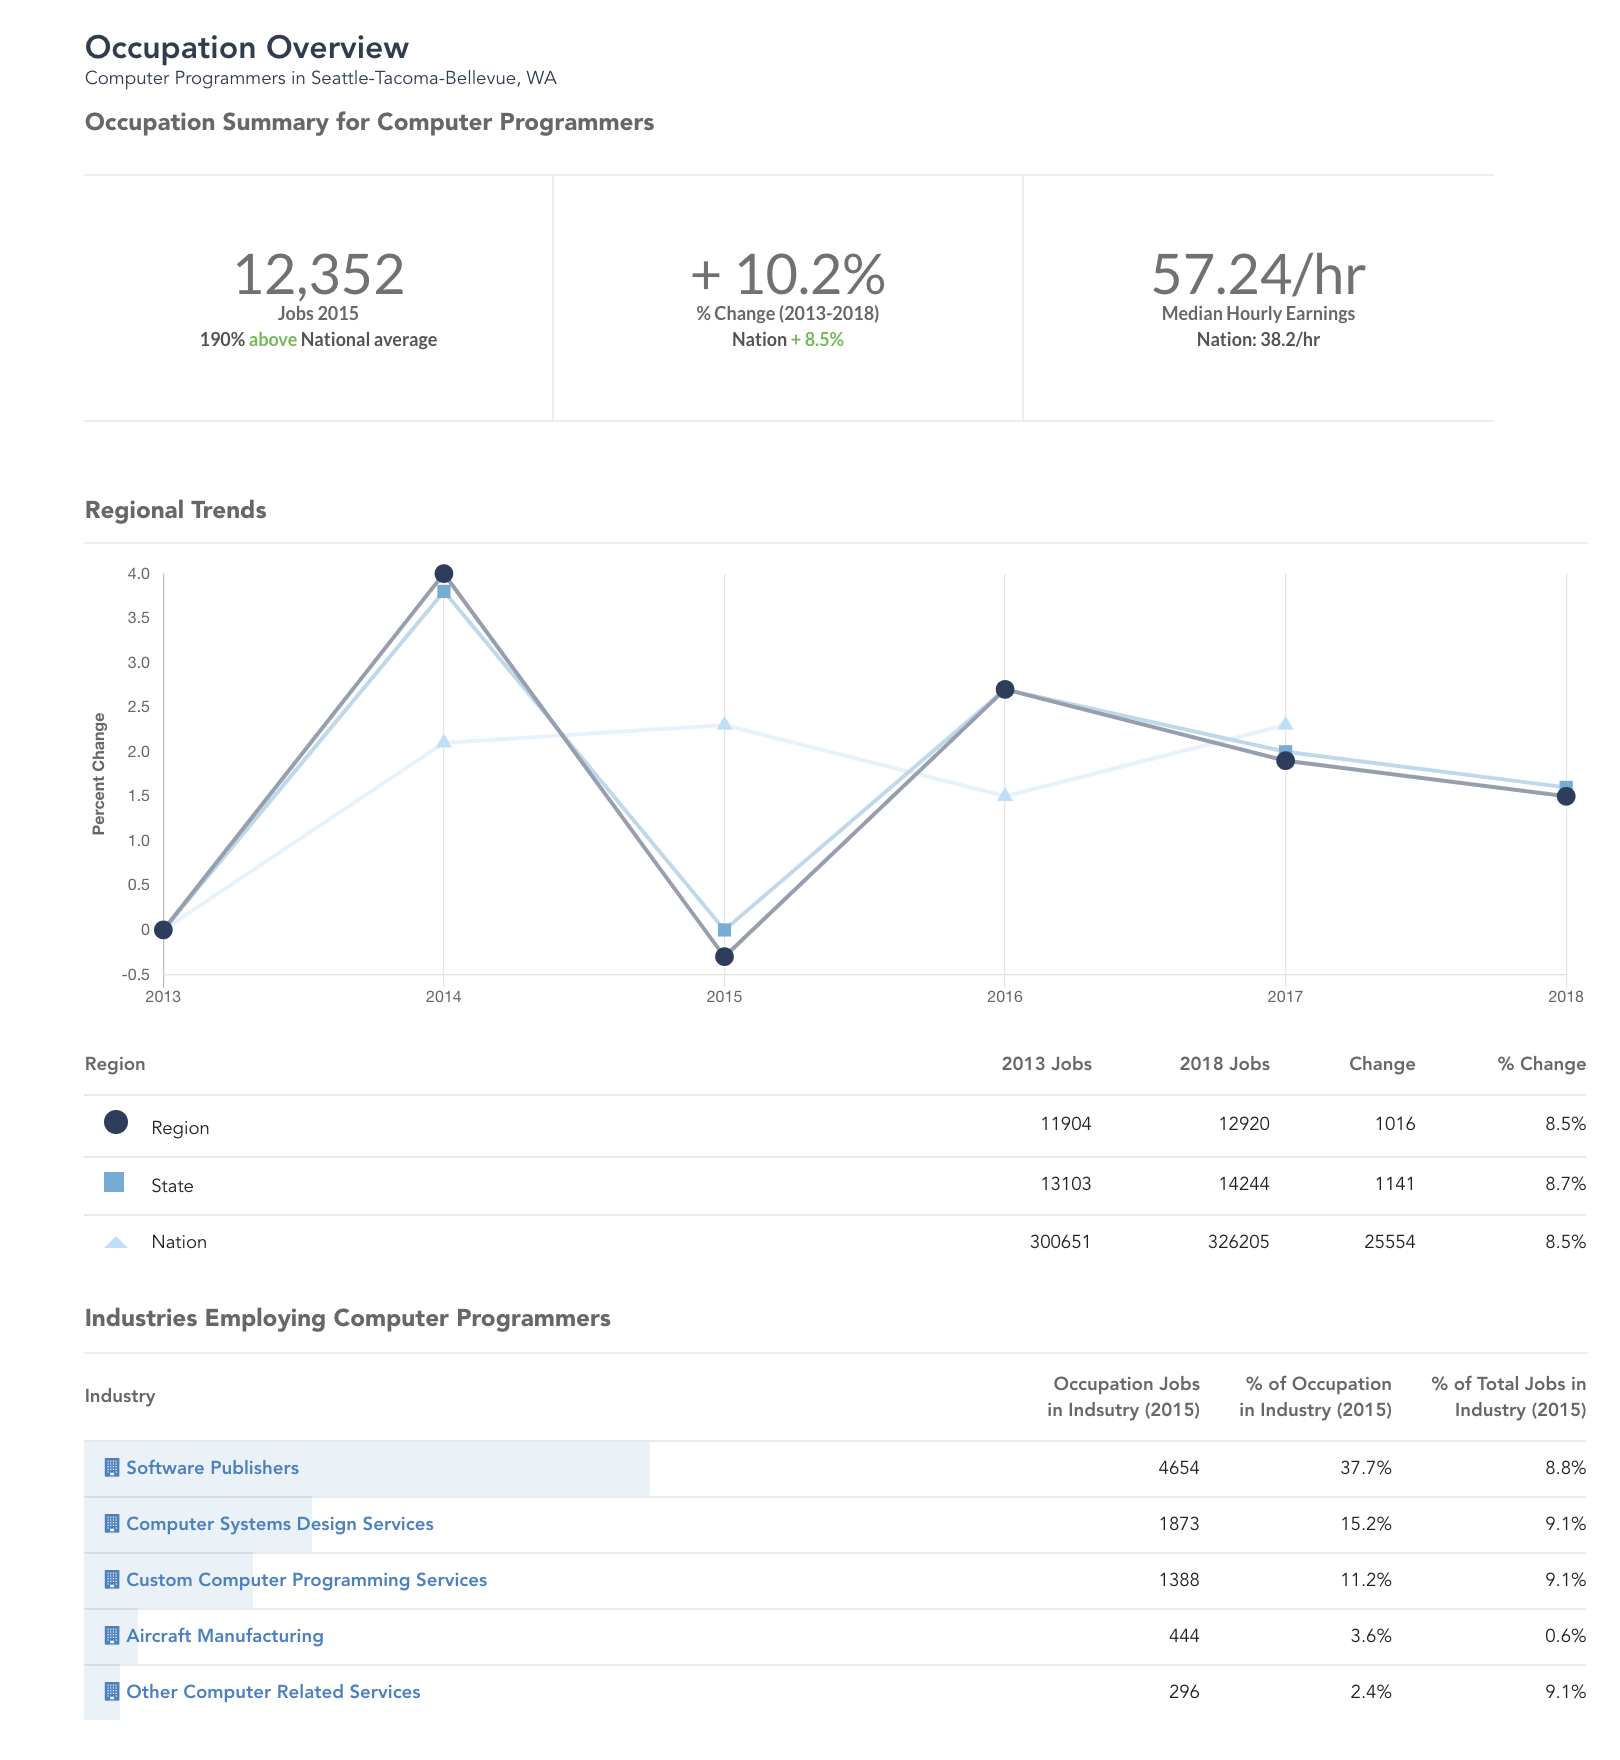
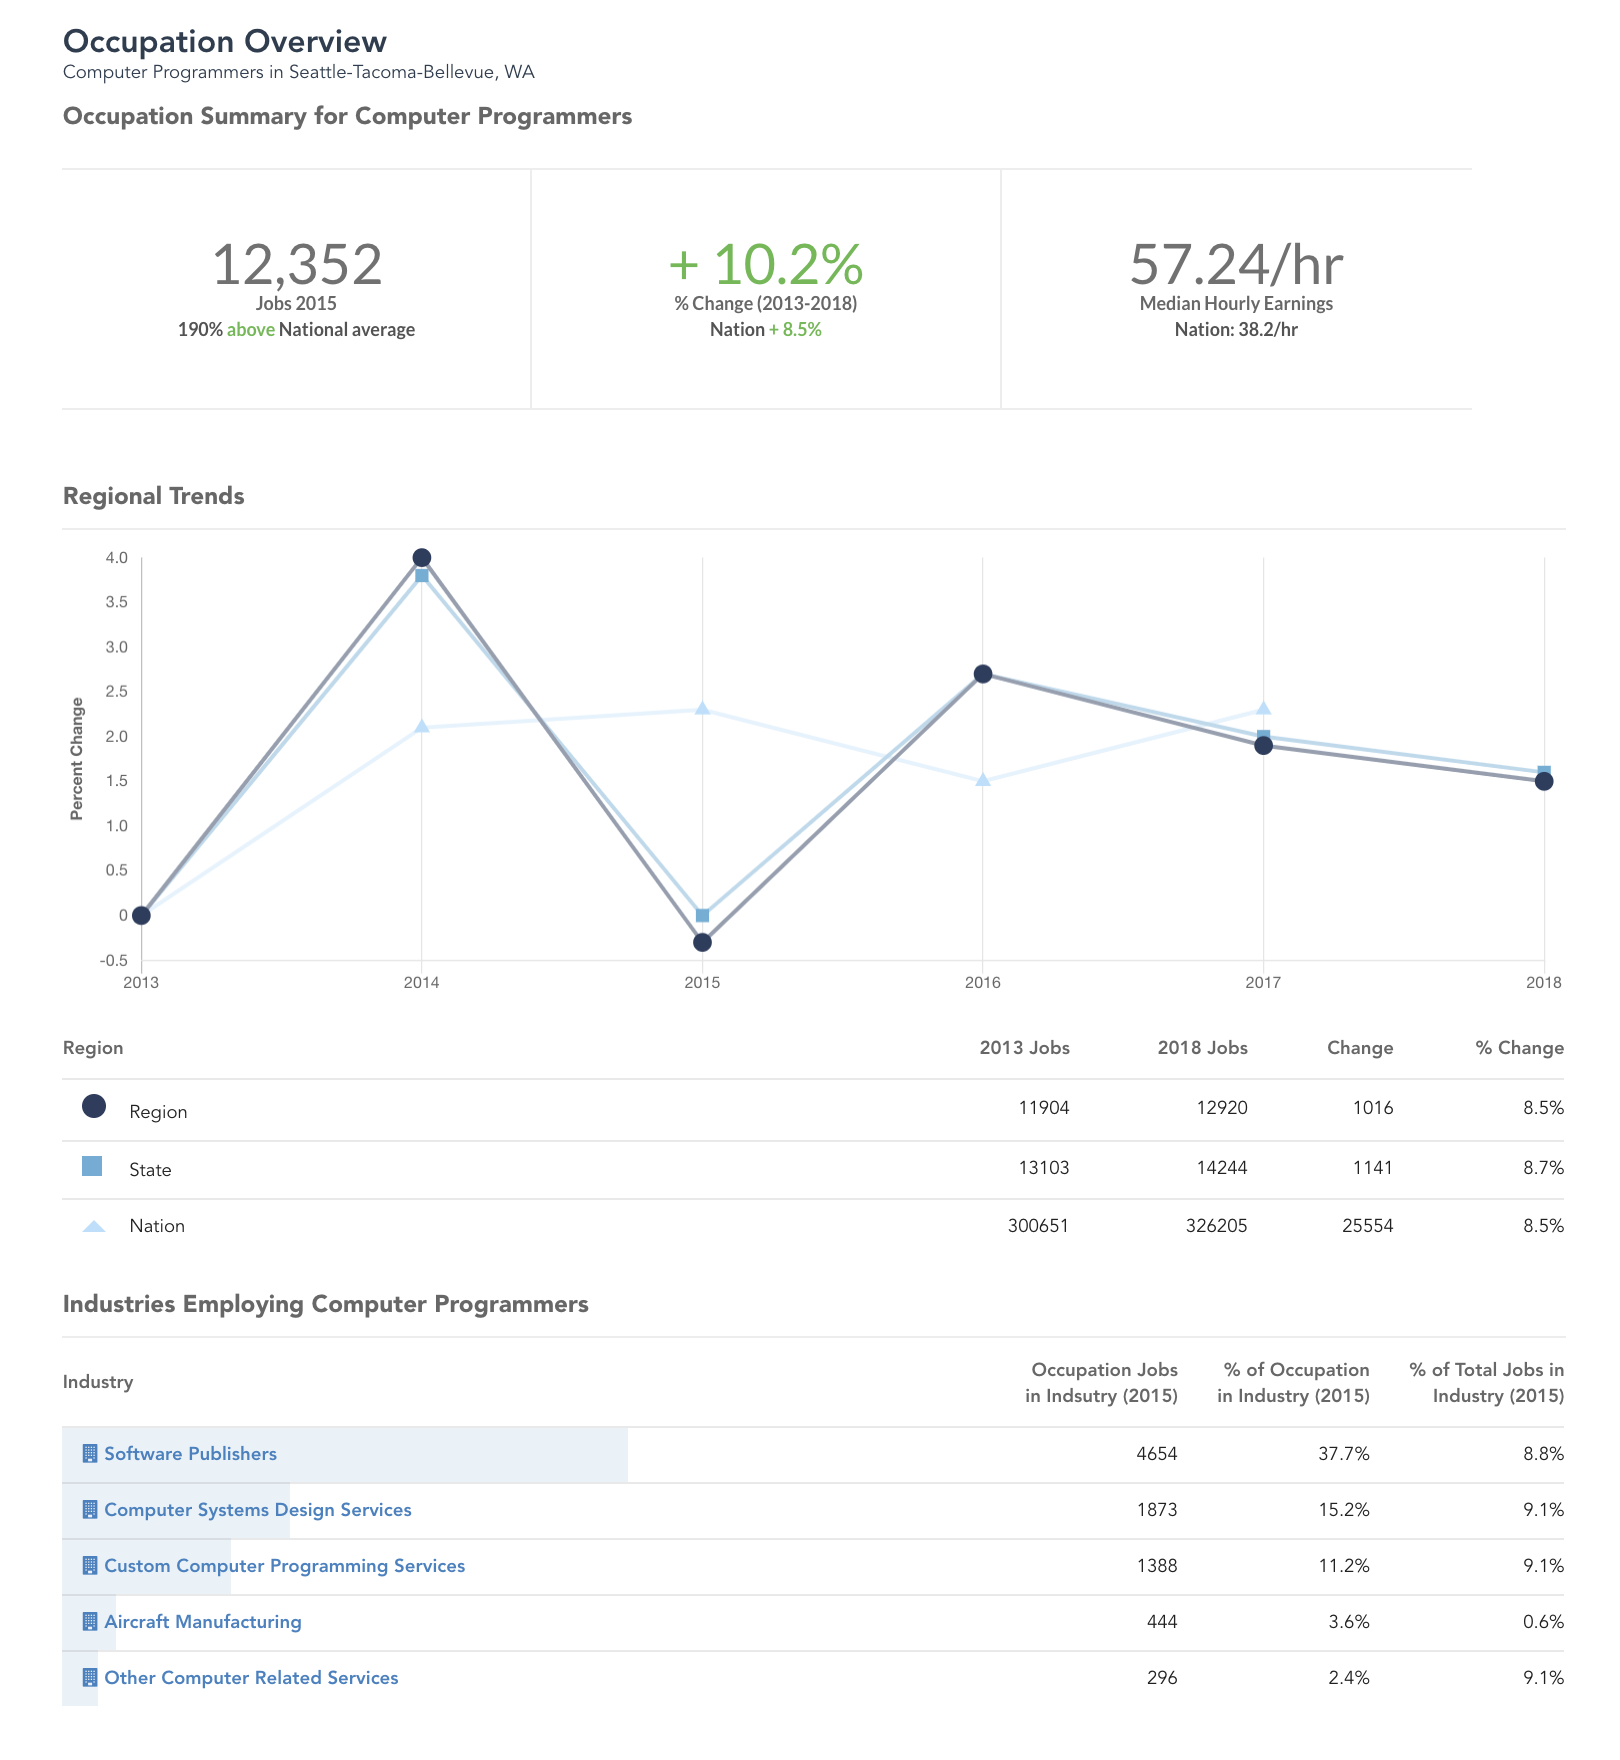
Fix Bug: Positive values in the occupation summary section were not being painted green. Update screenshot.

diff --git a/src/components/SummaryReport.vue b/src/components/SummaryReport.vue
@@ -16,7 +16,7 @@
             </report-statistic>
 
             <report-statistic>
-                <template slot="value" class="value green">{{ regionalJobGrowth }}</template>
+                <span slot="value" :class="{ green: regionalJobGrowth > 0 }">{{ regionalJobGrowth > 0 ? `+ ${regionalJobGrowth}%` : `${regionalJobGrowth}%` }}</span>
                 <template slot="title">{{growthDates}}</template>
                 <span slot="subtitle">Nation <span :class="{green: nationalJobGrowth > 0}"> + {{nationalJobGrowth}}% </span></span>
             </report-statistic>
@@ -58,10 +58,7 @@ export default {
         // Growth Stats
         regionalJobGrowth() {
             var growth = this.summaryInfo.jobs_growth.regional;
-                if (growth > 0) {
-                    return `+ ${growth}%`;
-                }
-            return `${growth}%`;
+            return growth;
         },
         nationalJobGrowth() {
             return this.summaryInfo.jobs_growth.national_avg;

diff --git a/src/components/ReportStatistic.vue b/src/components/ReportStatistic.vue
@@ -50,7 +50,7 @@ export default {
     text-transform: none !important;
 }
 
-.statistic .green {
+.green {
     color: #5dba4a !important;
 }
 
